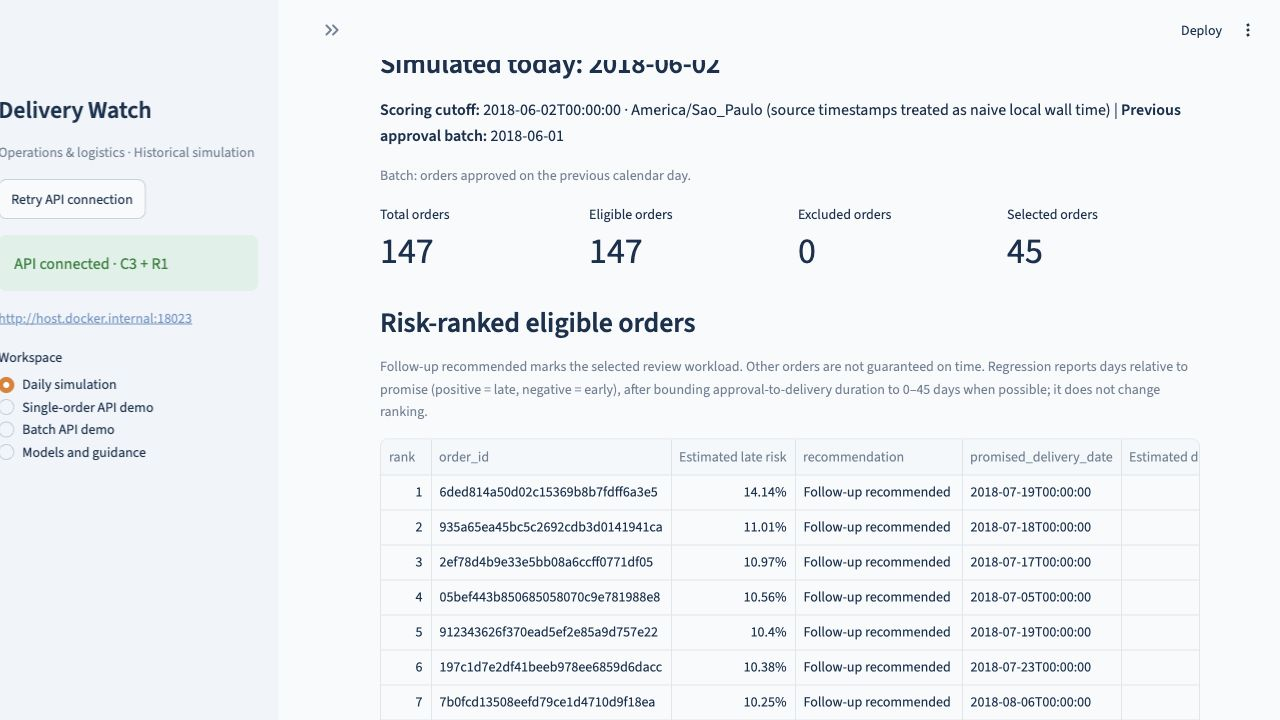
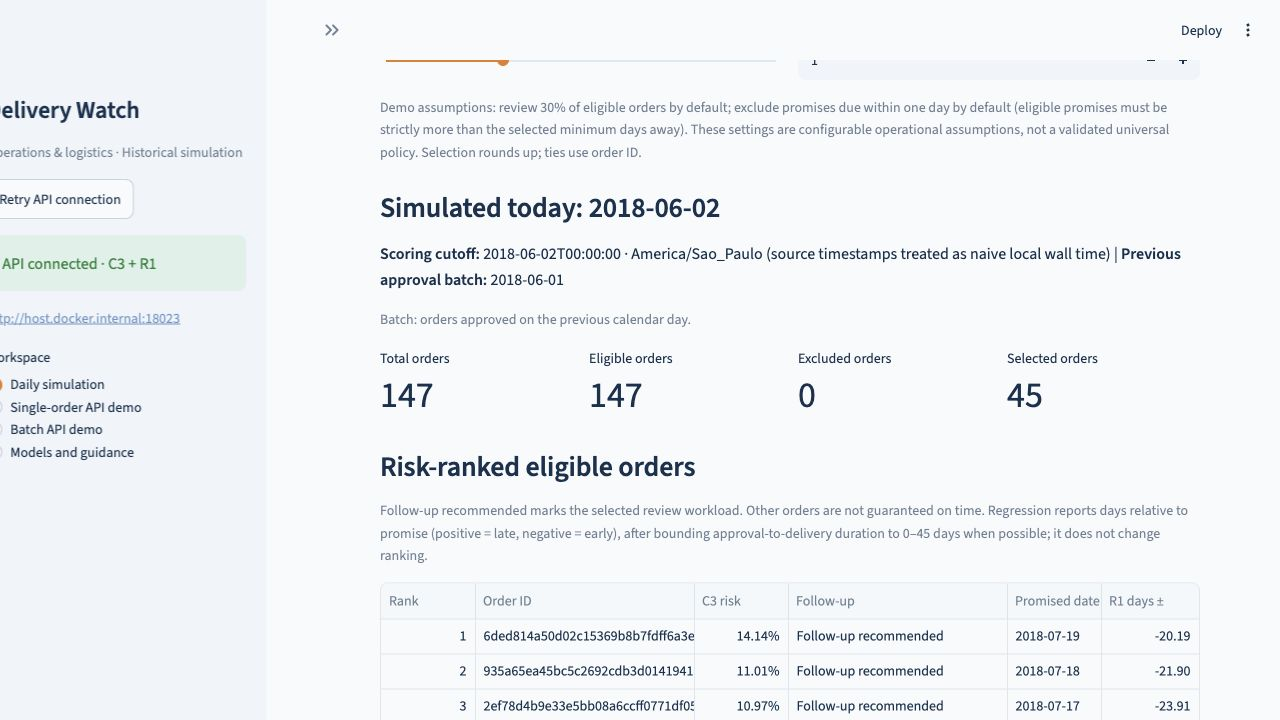
Keep both model outputs visible in daily worklist

diff --git a/phase3/frontend/app.py b/phase3/frontend/app.py
@@ -298,10 +298,17 @@ def daily_page(api_url):
     if orders:
         frame = pd.DataFrame(orders)
         columns = ['rank', 'order_id', 'late_probability', 'recommendation', 'promised_delivery_date', 'predicted_days_from_promise']
-        display = frame[[c for c in columns if c in frame]]
+        display = frame[[c for c in columns if c in frame]].copy()
+        display['promised_delivery_date'] = display['promised_delivery_date'].str[:10]
         st.subheader('Risk-ranked eligible orders')
         st.caption('Follow-up recommended marks the selected review workload. Other orders are not guaranteed on time. Regression reports days relative to promise (positive = late, negative = early), after bounding approval-to-delivery duration to 0–45 days when possible; it does not change ranking.')
-        st.dataframe(display, hide_index=True, width='stretch', column_config={'late_probability': st.column_config.NumberColumn('Estimated late risk', format='percent'), 'predicted_days_from_promise': st.column_config.NumberColumn('Estimated days from promise', format='%.2f')})
+        st.dataframe(display, hide_index=True, width='stretch', column_config={
+            'rank': st.column_config.NumberColumn('Rank', width='small'),
+            'order_id': st.column_config.TextColumn('Order ID', width='medium'),
+            'late_probability': st.column_config.NumberColumn('C3 risk', format='percent', width='small'),
+            'recommendation': st.column_config.TextColumn('Follow-up', width='medium'),
+            'promised_delivery_date': st.column_config.TextColumn('Promised date', width='small'),
+            'predicted_days_from_promise': st.column_config.NumberColumn('R1 days ±', format='%.2f', width='small', help='Estimated days from promise: positive late, negative early.')})
         st.download_button('Download prioritised worklist', display.to_csv(index=False), f'worklist_{day}.csv', 'text/csv')
         order_id = st.selectbox('Inspect a ranked order', frame.order_id.tolist())
         selected = next(row for row in orders if row['order_id'] == order_id)
